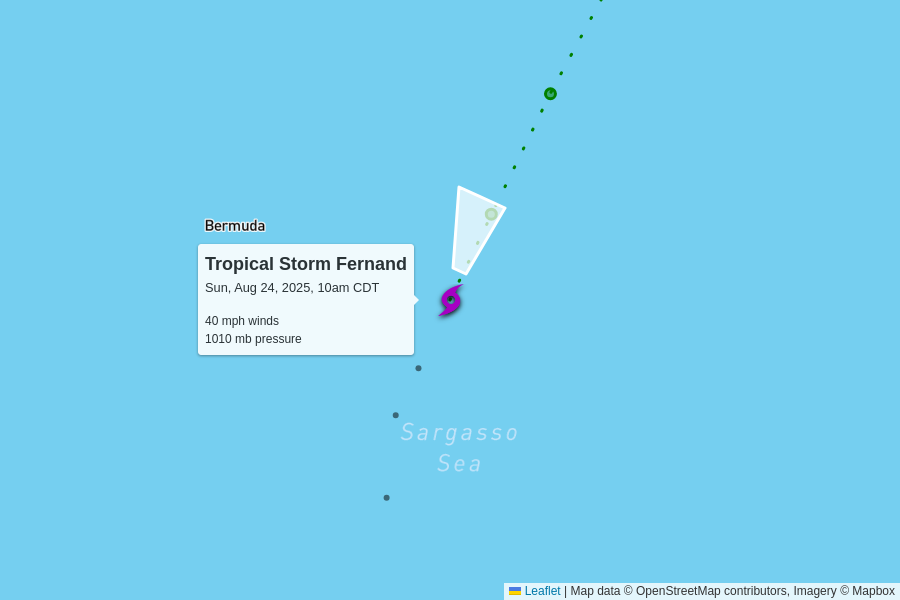
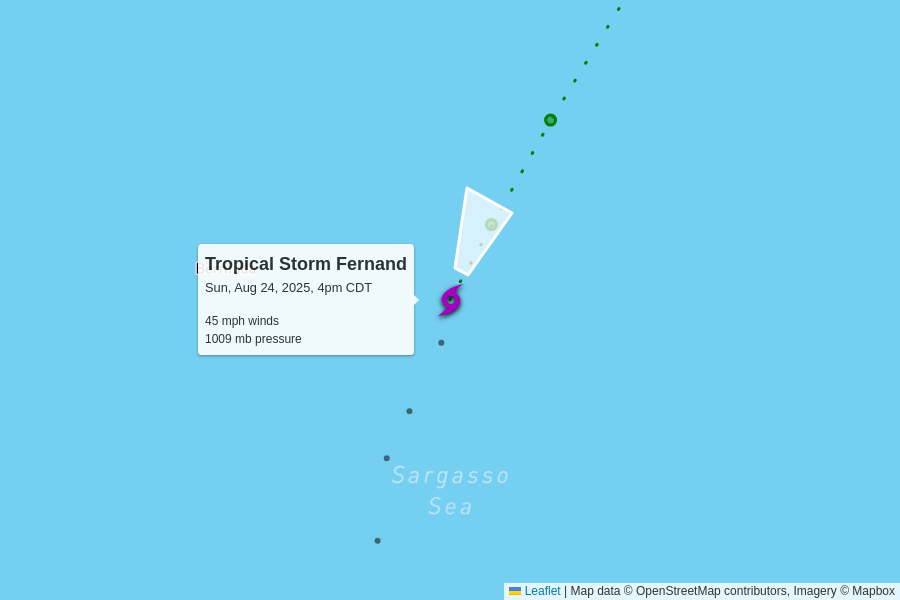
automatic update

diff --git a/docs/index.html b/docs/index.html
@@ -102,7 +102,7 @@
         <td colspan="6" class="storm category-0" >
           <h2>
             Tropical Storm Fernand
-            <p class="updated">last updated <span data-time>2025-08-24T15:00:00.000Z</span></p>
+            <p class="updated">last updated <span data-time>2025-08-24T21:00:00.000Z</span></p>
           </h2>
         </td>
       </tr>
@@ -117,12 +117,12 @@
       </tr>
       <tr>
         <td class="spacer"></td>
-        <td>40 mph<br>0 mph since last update</td>
-        <td>1010 mb<br>0 mb since last update</td>
+        <td>45 mph<br>+5 mph since last update</td>
+        <td>1009 mb<br>-1 mb since last update</td>
         <td>
-          15 mph to the north-northeast
+          13 mph to the north-northeast
           <br/>
-          <span style="display: inline-block; font-size: 1.5em; transform: rotate(20deg);">↑</span>
+          <span style="display: inline-block; font-size: 1.5em; transform: rotate(25deg);">↑</span>
         </td>
         <td><a href="https://raw.githubusercontent.com/mgwalker/atlantic-hurricanes/main/data/csv/AL062025.csv">AL062025.csv</a></td>
         <td><a href="https://www.nhc.noaa.gov/archive/2025/FERNAND.shtml?">NHC advisories</a></td>
